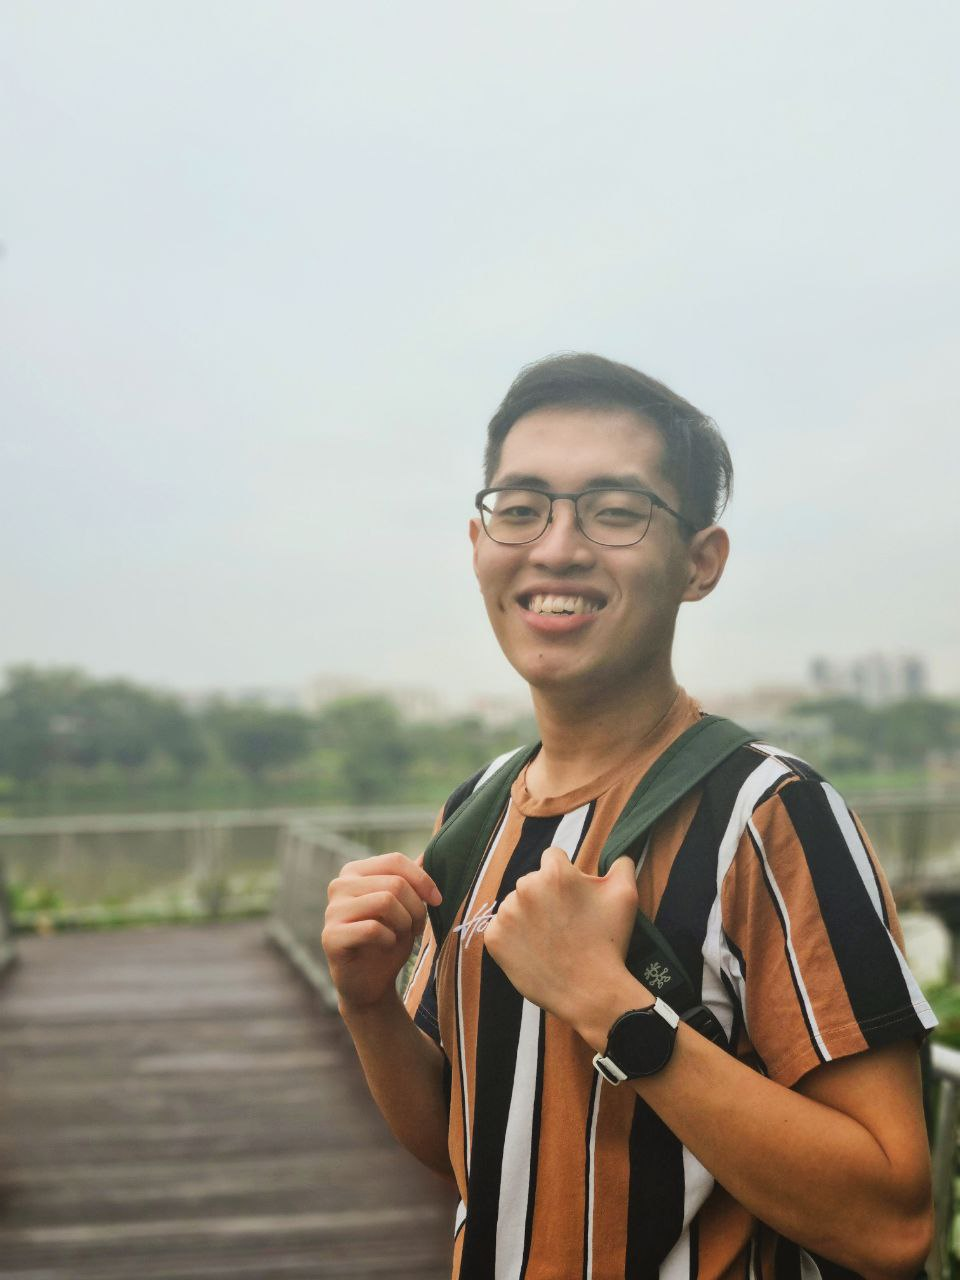
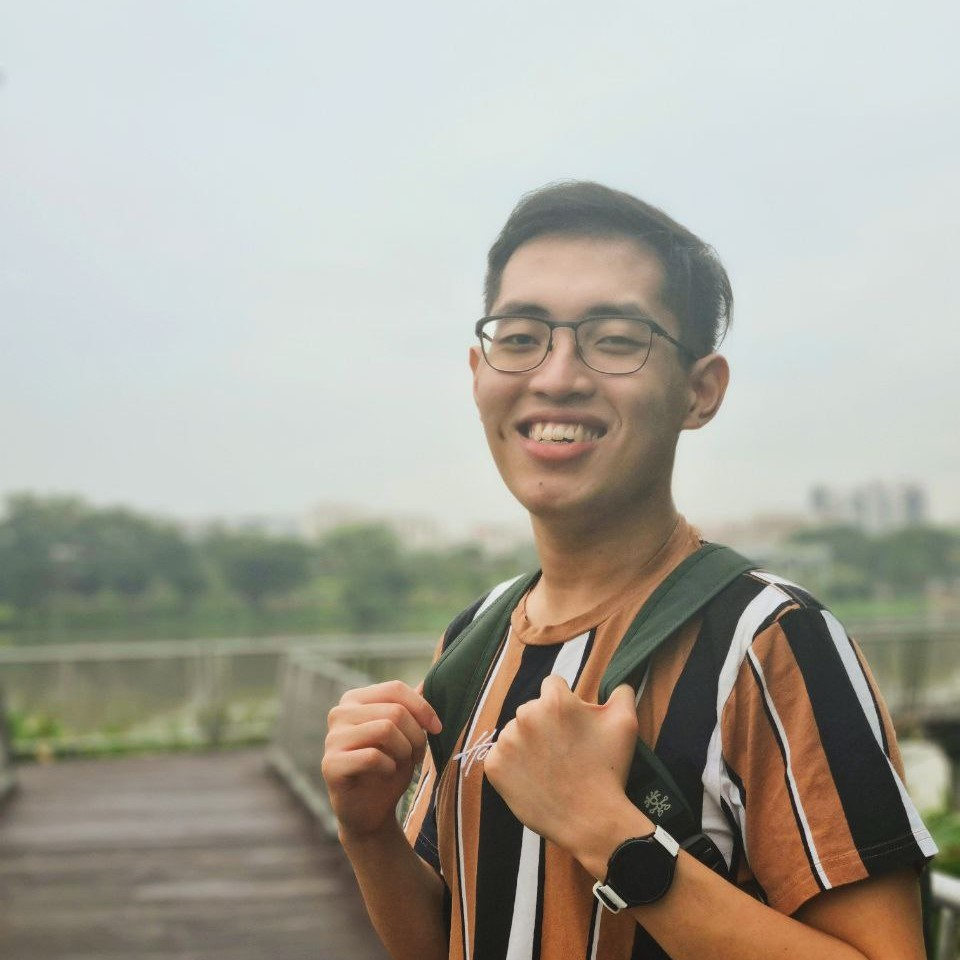
Added portrait to Home page
Refactored CSS on certain pages

diff --git a/src/components/SkillsProgressBar.js b/src/components/SkillsProgressBar.js
@@ -5,19 +5,17 @@ import "./SkillsProgressBar.css";
 export default function SkillsProgressBar(props) {
   return (
     <div className="SkillsProgressBar">
-      <div className="SkillsProgressBar-container">
-        <img id="skills-image" alt={props.alt} height="100" src={props.src} />
-        <div className="progress-bar">
-          <p className="progress-bar__text">
-            {props.level === "one"
-              ? "Beginner"
-              : props.level === "two"
-              ? "Novice"
-              : "Proficient"}
-          </p>
-          <div className="progress-bar__container">
-            <div className={`progress-bar__filler--${props.level}`}></div>
-          </div>
+      <img id="skills-image" alt={props.alt} height="100" src={props.src} />
+      <div className="progress-bar">
+        <p className="progress-bar__text">
+          {props.level === "one"
+            ? "Beginner"
+            : props.level === "two"
+            ? "Novice"
+            : "Proficient"}
+        </p>
+        <div className="progress-bar__container">
+          <div className={`progress-bar__filler--${props.level}`}></div>
         </div>
       </div>
     </div>

diff --git a/src/pages/Home.js b/src/pages/Home.js
@@ -1,11 +1,12 @@
 import React, { useState, useEffect } from "react";
 import { useNavigate } from "react-router-dom";
+import selfPortrait from "../img/self-portrait.jpg";
 
 import "./Home.css";
 
 export default function Home() {
   const [text, setText] = useState("");
-  const [fullText, setFullText] = useState("Koh Meng Kiat, Kenneth");
+  const [fullText, setFullText] = useState("Kenneth Koh");
   const [index, setIndex] = useState(0);
 
   const openNewTab = (url) => {
@@ -33,6 +34,11 @@ export default function Home() {
   return (
     <div className="Home">
       <header className="Home__header">
+        <img
+          class="Home__portrait"
+          alt="Self-portrait"
+          src={selfPortrait}
+        ></img>
         <p id="name">{text}</p>
         <button class="Home__button" onClick={resume}>
           Resume

diff --git a/src/pages/Home.css b/src/pages/Home.css
@@ -20,6 +20,8 @@
   font-weight: bold;
   color: white;
   font-family: monospace;
+  padding: 0;
+  margin: 4vh 0 4vh 0;
 }
 
 .Home__button {
@@ -30,8 +32,17 @@
   font-size: calc(15px + 2vmin);
   font-family: monospace;
   padding-bottom: 20px;
+  transition: all 0.2s ease;
 }
 
 .Home__button:hover {
   text-decoration: underline;
+  color: white;
+}
+
+.Home__portrait {
+  top: 50;
+  left: 50;
+  height: 30vh;
+  border-radius: 50%;
 }

diff --git a/src/pages/NoGitHub.js b/src/pages/NoGitHub.js
@@ -6,7 +6,9 @@ export default function NoGitHub() {
   return (
     <div className="NoGitHub">
       <header className="NoGitHub__header">
-        <p className="NoGitHub__title">No GitHub Repository for this project</p>
+        <p className="NoGitHub__title">
+          No GitHub Repository for this project.
+        </p>
       </header>
     </div>
   );

diff --git a/src/components/NavBar.js b/src/components/NavBar.js
@@ -24,7 +24,7 @@ export default function NavBar() {
   return (
     <div>
       <nav className="NavBar">
-        <h1 className="NavBar__title">Koh Meng Kiat, Kenneth</h1>
+        <h1 className="NavBar__title">Kenneth Koh</h1>
         <div className="NavBar__buttons__container">
           <button class="NavBar__button" onClick={home}>
             Home

diff --git a/src/components/ProjectsCard.css b/src/components/ProjectsCard.css
@@ -8,7 +8,7 @@
   font-family: monospace;
   width: 100%;
   padding: 1.5vh 1.5vw;
-  transition: color 0.2s, border 0.2s, background-color 0.2s;
+  transition: all 0.2s ease;
 }
 
 .ProjectsCard__button:hover {

diff --git a/src/components/NavBar.css b/src/components/NavBar.css
@@ -25,8 +25,10 @@
   border: none;
   font-size: 1.5rem;
   font-family: monospace;
+  transition: all 0.2s ease;
 }
 
 .NavBar__button:hover {
   text-decoration: underline;
+  color: white;
 }

diff --git a/src/components/SkillsProgressBar.css b/src/components/SkillsProgressBar.css
@@ -1,8 +1,5 @@
 .SkillsProgressBar {
   margin: 1vh 1vw;
-}
-
-.SkillsProgressBar-container {
   display: flex;
   flex-direction: row;
 }

diff --git a/src/pages/NoGitHub.css b/src/pages/NoGitHub.css
@@ -13,6 +13,6 @@
 
 .NoGitHub__title {
   font-family: monospace;
-  font-size: 3rem;
+  font-size: 2rem;
   color: white;
 }
